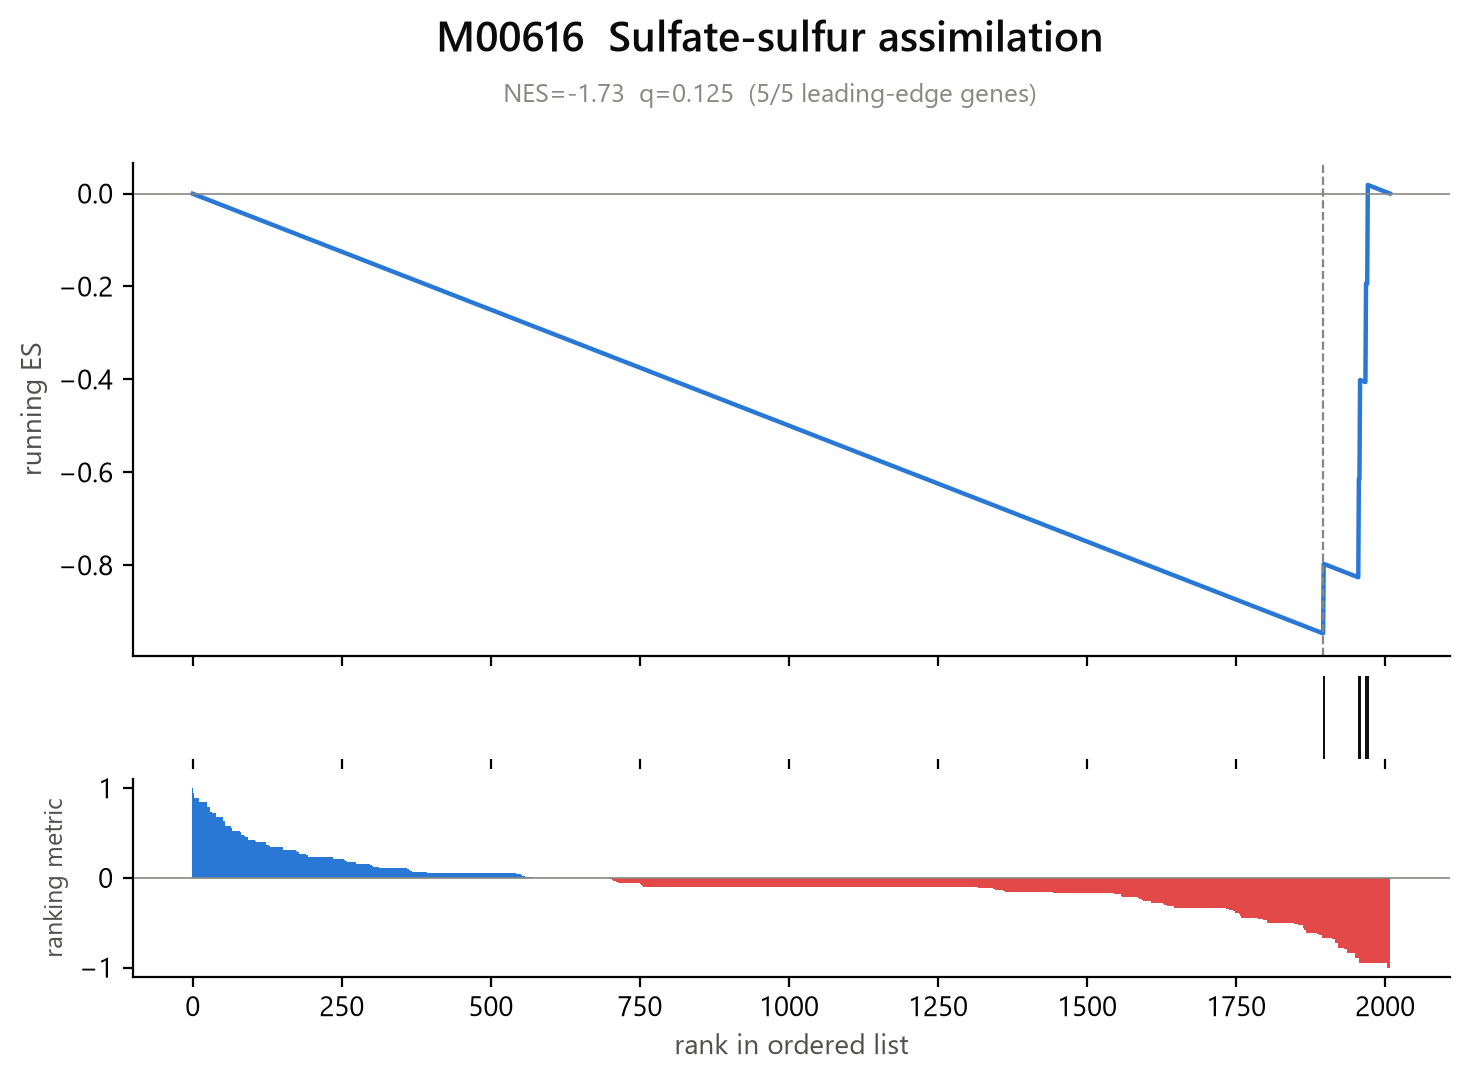
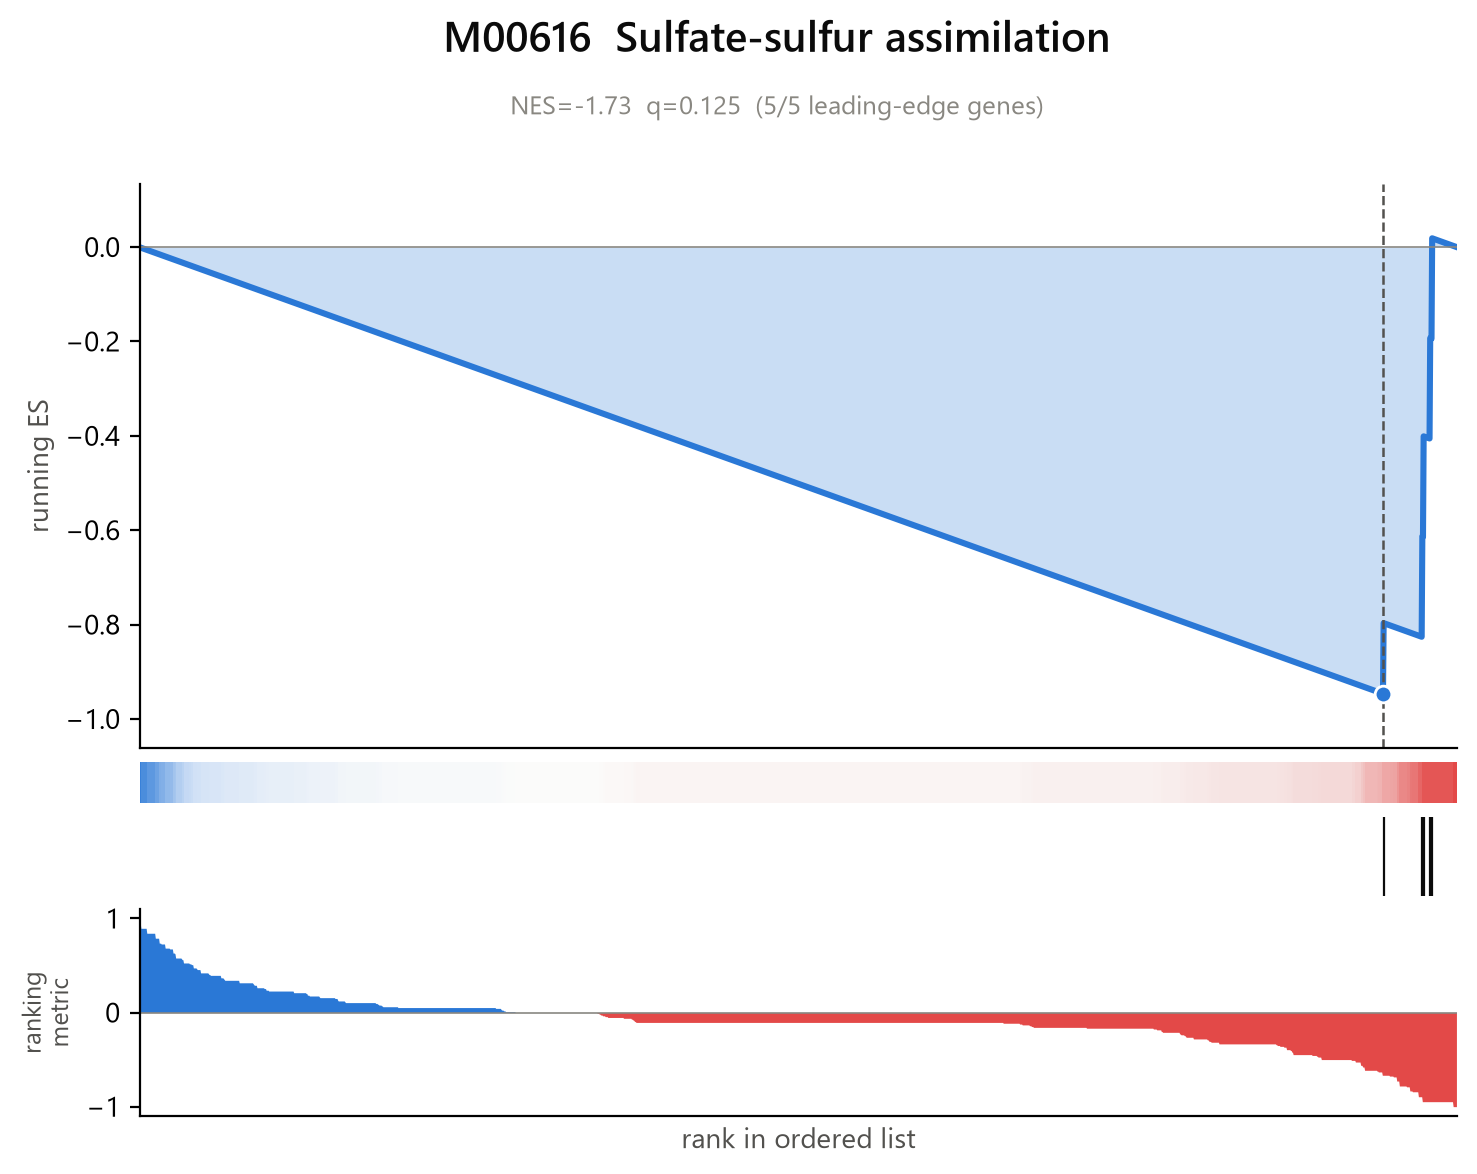
Redesign the GSEA running-plot: fill, diverging strip, smooth ranking area
The running-ES plot was a bare thin line with a plain bar chart underneath --
looked sparse and jagged once scaled down for display, and was missing the
signature diverging colour strip that canonical (Broad-style) GSEA plots use.

- Fill the running-ES curve to zero (light blue) and thicken the line
  (1.6 -> 2.2pt); mark the peak with a dot instead of only a dashed line.
- Add the diverging red-blue colour strip showing the ranking metric's
  sign/magnitude at every position -- the panel this plot was missing.
- Replace the bottom ranking-metric bar chart with a filled "mountain" area
  (still split blue/red by sign), which reads far smoother than discrete bars
  at thousands of data points.
- Verified on real data (the E. coli TCA-cycle plot the report was about) and
  on a negative-ES case (Sulfate-sulfur assimilation), plus an all-zero-score
  edge case so the diverging colormap's vmin/vmax can't collapse to zero.

No analysis changes -- same ES/NES/p-values as before; only the rendering
of the top-hit plot. Regenerated both example plots (Ecoli, Synechococcus).
Validated locally: 113 tests pass, ruff clean, no absolute paths, no
workflow files touched.

diff --git a/mpph/plot.py b/mpph/plot.py
@@ -263,29 +263,44 @@ def plot_enrichment(
     plt.close(fig)
 
 
+_GSEA_DIVERGING = mcolors.LinearSegmentedColormap.from_list(
+    "mpph_gsea_diverging", ["#e34948", "#f4d9d8", "#fcfcfb", "#cfe0f6", "#2a78d6"]
+)
+
+
 def plot_gsea_running(
     ranked_scores: np.ndarray, running: np.ndarray, hits: np.ndarray,
     outfile: Path, title: str, subtitle: str = "",
 ) -> None:
-    """The classic GSEA running-enrichment-score plot for one category.
+    """The classic four-panel GSEA running-enrichment-score plot.
 
-    Top panel: the cumulative running-sum trajectory, peak marked. Middle: a
-    rug of tick marks where a category member falls in the ranking. Bottom: the
-    ranking metric itself, so the reader can see whether hits sit where the
-    ranking metric is large.
+    Top to bottom, matching the standard Broad GSEA layout: (1) the running
+    enrichment trajectory, filled to zero, peak marked; (2) a diverging
+    red-blue strip of the ranking metric at every position, so the eye can
+    see at a glance where the ranking crosses zero; (3) a tick-mark rug of
+    where category members fall; (4) the ranking metric itself as a filled
+    "mountain" chart.
     """
     n = len(ranked_scores)
     peak = int(np.argmax(running)) if abs(running.max()) >= abs(running.min()) \
         else int(np.argmin(running))
-    fig, (ax_run, ax_rug, ax_score) = plt.subplots(
-        3, 1, figsize=(8.5, 5.5), sharex=True,
-        gridspec_kw={"height_ratios": [3, 0.5, 1.2], "hspace": 0.08},
+    fig, (ax_run, ax_strip, ax_rug, ax_score) = plt.subplots(
+        4, 1, figsize=(8.5, 6.3), sharex=True,
+        gridspec_kw={"height_ratios": [3, 0.22, 0.42, 1.1], "hspace": 0.06},
     )
     fig.subplots_adjust(top=0.85)
-    ax_run.plot(range(n), running, color=CATEGORY_PALETTE[0], linewidth=1.6)
+
+    ax_run.fill_between(range(n), running, 0, color=CATEGORY_PALETTE[0],
+                        alpha=0.25, linewidth=0)
+    ax_run.plot(range(n), running, color=CATEGORY_PALETTE[0], linewidth=2.2,
+               solid_joinstyle="round")
     ax_run.axhline(0, color=MUTED, linewidth=0.6)
-    ax_run.axvline(peak, color=MUTED, linewidth=0.8, linestyle="--")
+    ax_run.axvline(peak, color=SECONDARY, linewidth=0.9, linestyle="--")
+    ax_run.plot(peak, running[peak], "o", color=CATEGORY_PALETTE[0],
+               markersize=6, markeredgecolor="white", markeredgewidth=1)
     ax_run.set_ylabel("running ES", color=SECONDARY)
+    pad = (running.max() - running.min()) * 0.12 or 0.05
+    ax_run.set_ylim(min(running.min(), 0) - pad, max(running.max(), 0) + pad)
     fig.suptitle(title, x=0.5, y=0.98, fontsize=15, fontweight="semibold",
                 color=INK, ha="center")
     if subtitle:
@@ -293,17 +308,29 @@ def plot_gsea_running(
     for s in ("top", "right"):
         ax_run.spines[s].set_visible(False)
 
+    # Diverging colour strip: the ranking metric's sign/magnitude at every
+    # position -- the signature "heatmap" band of a canonical GSEA plot.
+    vmax = np.abs(ranked_scores).max() or 1.0
+    ax_strip.imshow(ranked_scores[np.newaxis, :], aspect="auto", cmap=_GSEA_DIVERGING,
+                    vmin=-vmax, vmax=vmax, extent=[0, n, 0, 1], interpolation="nearest")
+    ax_strip.set_yticks([])
+    ax_strip.set_xticks([])
+    for s in ax_strip.spines.values():
+        s.set_visible(False)
+
     hit_pos = np.nonzero(hits)[0]
-    ax_rug.vlines(hit_pos, 0, 1, color=INK, linewidth=0.7)
+    ax_rug.vlines(hit_pos, 0, 1, color=INK, linewidth=0.8)
     ax_rug.set_ylim(0, 1)
     ax_rug.set_yticks([])
     for s in ax_rug.spines.values():
         s.set_visible(False)
 
-    colors = np.where(ranked_scores >= 0, "#2a78d6", "#e34948")
-    ax_score.bar(range(n), ranked_scores, color=colors, width=1.0)
+    pos = np.clip(ranked_scores, 0, None)
+    neg = np.clip(ranked_scores, None, 0)
+    ax_score.fill_between(range(n), pos, 0, color="#2a78d6", linewidth=0)
+    ax_score.fill_between(range(n), neg, 0, color="#e34948", linewidth=0)
     ax_score.set_xlabel("rank in ordered list", color=SECONDARY)
-    ax_score.set_ylabel("ranking metric", color=SECONDARY, fontsize=9)
+    ax_score.set_ylabel("ranking\nmetric", color=SECONDARY, fontsize=9)
     ax_score.axhline(0, color=MUTED, linewidth=0.6)
     for s in ("top", "right"):
         ax_score.spines[s].set_visible(False)
